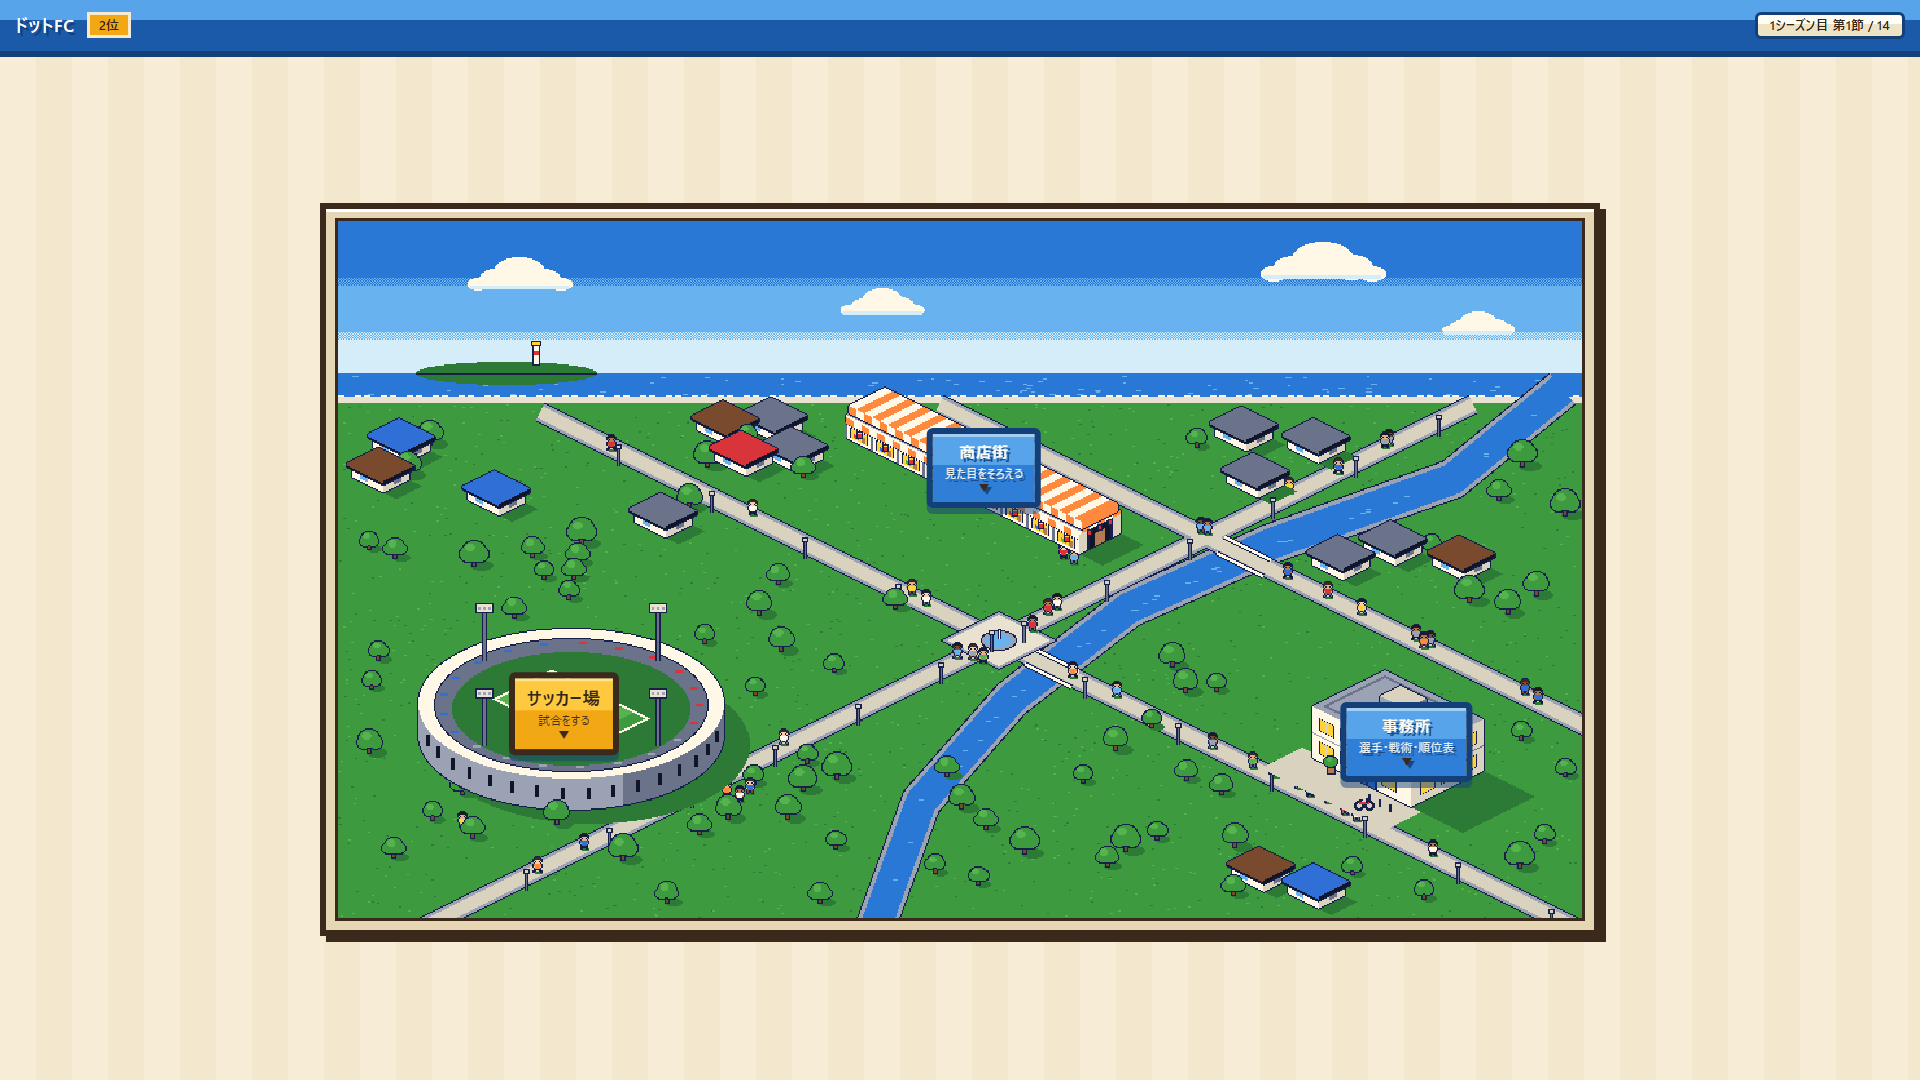
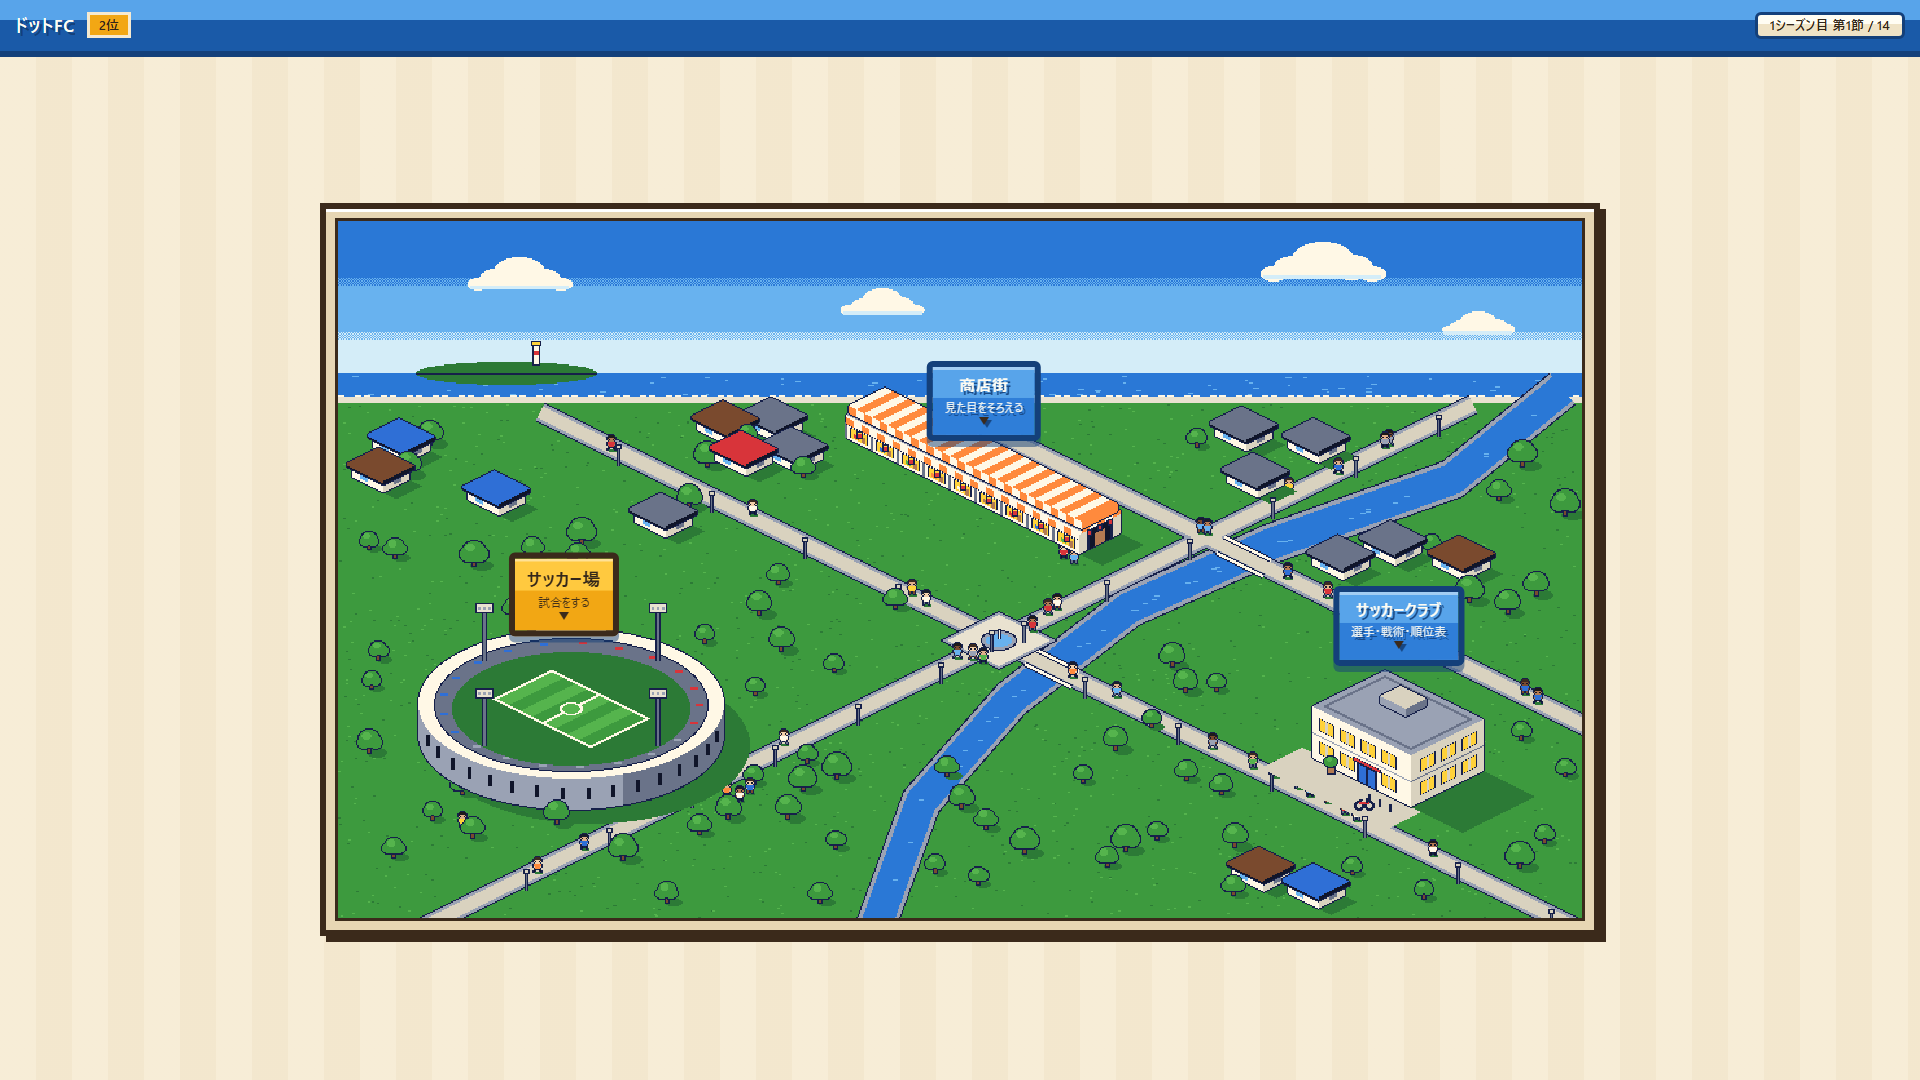
街の札を建物の上に出す／「事務所」を「サッカークラブ」に変える
オーナー指摘「建物の上に名前を出してくれるかな？あと、事務所から名前を
サッカークラブに変えてほしい」。

🔴 札が指す点を建物の「中心」から「天辺」に変えた。中心を指していたので
   札が建物にかぶさり、せっかく描いてもらったスタジアムのピッチもビルも
   札で隠れていた。あわせて札の基準を中心合わせ（-50%）から下端合わせ（-100%）にして、
   下に出る ▼ がちょうど建物の天辺を指すようにした。

   指す点は town.js の図形から算出:
     サッカー場 = 楕円の上端（中心 y=398・短半径58・高さ24 → 316）
     商店街     = 屋根の上面
     事務所     = 屋上

🔑 画面に出る「事務所」をすべて「サッカークラブ」にした（街の札・見出し・読み上げ用の名前）。
   コード側の id と画面IDは `office` のまま（表に出ないので変える理由が無い）。

npm run check / npm test 255件すべてPASS。

Changed region(s): [[0.6875, 0.5194, 0.7812, 0.7333], [0.25, 0.4889, 0.3438, 0.7028], [0.4688, 0.3361, 0.5625, 0.4889]]

diff --git a/src/web/bg.ts b/src/web/bg.ts
@@ -106,16 +106,24 @@ export function draw(target: HTMLCanvasElement, kind: Kind): void {
 }
 
 /**
- * 街の施設の位置（`town.js` の絵の中。960×540 に対する割合）。
+ * 街の施設を指す点（`town.js` の絵の中。960×540 に対する割合）。
  *
  * 🔴 **絵と押せる場所は必ずここ1か所から出す。** 絵を描き直したのに
  *    押せる場所だけ取り残される、が一番よく起きる壊れ方。
+ *
+ * 🔴 **指すのは建物の「天辺」で、中心ではない**（2026-10-03 オーナー指摘
+ *    「建物の上に名前を出して」）。中心を指すと札が建物にかぶさり、
+ *    せっかく描いてもらったスタジアムやビルが**札で隠れる**。
+ *    札は `transform: translate(-50%, -100%)` で指した点の**上**に乗り、
+ *    下に出る ▼ がその点を指す。
+ *
  * 🔑 値は `web/bg/town.js` の図形から出した:
- *    サッカー場 = 楕円の中心 (180, 380) / 商店街 = 長い建物の中心 (498, 196) /
- *    事務所 = ビルの中心 (818, 401)。
+ *    サッカー場 = 楕円の上端（中心 y=398・短半径 58・高さ 24 → 316）
+ *    商店街     = 屋根の上面（箱 gz=24 の上面。中心は iso で (498, 181)）
+ *    事務所     = 屋上（箱 gz=40 ＋ 屋上の小箱。iso で (808, 348)）
  */
 export const TOWN_SPOTS: Record<string, { left: number; top: number }> = {
-  stadium: { left: (180 / SRC_W) * 100, top: (380 / SRC_H) * 100 },
-  shop: { left: (498 / SRC_W) * 100, top: (196 / SRC_H) * 100 },
-  office: { left: (818 / SRC_W) * 100, top: (401 / SRC_H) * 100 },
+  stadium: { left: (180 / SRC_W) * 100, top: (322 / SRC_H) * 100 },
+  shop: { left: (498 / SRC_W) * 100, top: (176 / SRC_H) * 100 },
+  office: { left: (812 / SRC_W) * 100, top: (344 / SRC_H) * 100 },
 };

diff --git a/web/style.css b/web/style.css
@@ -1295,7 +1295,10 @@ tr.is-me td { color: var(--ink); font-weight: 800; }
    位置は `city.ts` の SPOTS から JS が入れる（絵と座標の出どころを1つにする） */
 .spot {
   position: absolute;
-  transform: translate(-50%, -50%);
+  /* 🔴 指した点の**上**に乗せる（2026-10-03 オーナー指摘「建物の上に名前を出して」）。
+        中心合わせ（-50%）だと札が建物にかぶさって、スタジアムもビルも隠れていた。
+        下端を合わせれば、下に出る ▼ がちょうど建物の天辺を指す。 */
+  transform: translate(-50%, -100%);
   display: grid;
   gap: 0;
   padding: calc(var(--px) * 2) calc(var(--px) * 4);
@@ -1327,7 +1330,7 @@ tr.is-me td { color: var(--ink); font-weight: 800; }
 }
 .spot-main .spot-name { font-size: 1.05rem; }
 .spot:hover { filter: brightness(1.08); }
-.spot:active { transform: translate(-50%, calc(-50% + var(--drop))); box-shadow: none; }
+.spot:active { transform: translate(-50%, calc(-100% + var(--drop))); box-shadow: none; }
 .spot:focus-visible { outline: var(--w-frame) solid var(--away); outline-offset: var(--px); }
 /* ▼ で「ここへ入る」を示す */
 .spot::after {

diff --git a/web/index.html b/web/index.html
@@ -134,7 +134,7 @@
       <span class="spot-note">試合をする</span>
     </button>
     <button class="spot" data-go="office" id="goOffice">
-      <span class="spot-name">事務所</span>
+      <span class="spot-name">サッカークラブ</span>
       <span class="spot-note">選手・戦術・順位表</span>
     </button>
   </div>
@@ -177,7 +177,7 @@
 <section id="office" class="screen">
   <div class="place-head place-head-sticky">
     <button class="btn btn-back" data-back="1">街へ戻る</button>
-    <h2 class="place-title">事務所</h2>
+    <h2 class="place-title">サッカークラブ</h2>
   </div>
 
   <div class="tab-body">
@@ -295,7 +295,7 @@
 
   <!-- 🔑 コマンド帯は**事務所の中だけ**に出す（2026-10-02 オーナー判断）。
        街が主なので、同じ場所へ行ける道を2本にしない。 -->
-  <nav class="tabs" id="tabs" aria-label="事務所のコマンド">
+  <nav class="tabs" id="tabs" aria-label="サッカークラブのコマンド">
     <button class="tab is-on" data-tab="squad">選手</button>
     <button class="tab" data-tab="tactics">戦術</button>
     <button class="tab" data-tab="table">順位表</button>

diff --git a/src/web/bgcheck.ts b/src/web/bgcheck.ts
@@ -17,7 +17,7 @@ const ITEMS: { kind: Bg.Kind; label: string; spots: boolean }[] = [
 ];
 
 const SPOT_LABEL: Record<string, string> = {
-  stadium: "サッカー場", shop: "商店街", office: "事務所",
+  stadium: "サッカー場", shop: "商店街", office: "サッカークラブ",
 };
 
 function el(tag: string, cls?: string, text?: string): HTMLElement {
